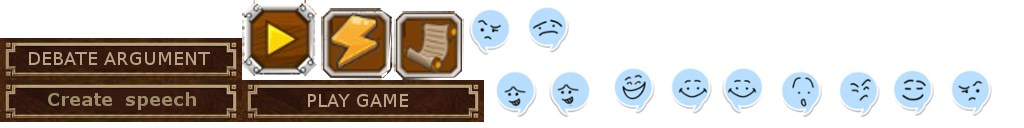
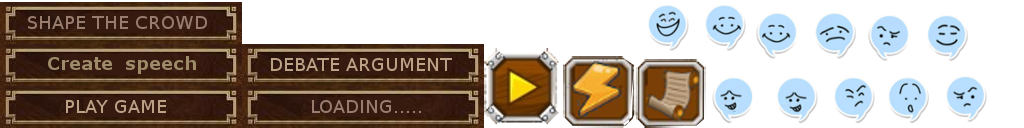
Fixed bugs

diff --git a/core/src/com/realrules/game/main/DemoGame.java b/core/src/com/realrules/game/main/DemoGame.java
@@ -54,6 +54,7 @@ public class DemoGame extends ApplicationAdapter {
 	IManualInteraction manualInteraction = null;
 	Label remainingVotesCounter = null;
 	Label endScoreCounter = null;
+	boolean isAssetsLoaded = false;
 	
 	public static float universalTimeRatio = 0.7f;
 
@@ -116,9 +117,7 @@ public class DemoGame extends ApplicationAdapter {
 	@Override
 	public void render () {
 		
-		if(!Assets.get().isLoaded()) {
-			Assets.get().load();
-		}
+		if(!isAssetsLoaded) { loadAssets();}
 		
 		Gdx.gl.glClearColor(0, 0, 0, 1);
 		Gdx.gl.glClear(GL20.GL_COLOR_BUFFER_BIT);
@@ -194,7 +193,26 @@ public class DemoGame extends ApplicationAdapter {
 		_yCentreOffset = actorToSet.getY();
 	}
 	
+	private void loadAssets() {
+		
+		if(!Assets.get().isLoaded()) {
+			Assets.get().load();
+		}
+		else {
+			setPlayButton();
+			isAssetsLoaded = true;
+		}
+	}
+	
 	private void setTitleScreen() {
+		
+		setToStage(getImage("TitleScreen", "screens//screensPack"), 0, 0);
+		Actor btn = getButton("LoadingBtn");
+		setToStage(btn, 0, -260);
+		
+	}
+	
+	private void setPlayButton() {
 		
 		setToStage(getImage("TitleScreen", "screens//screensPack"), 0, 0);
 		Actor btn = getButton("PlayGameBtn");
@@ -205,7 +223,6 @@ public class DemoGame extends ApplicationAdapter {
 				 setSpeechScreen();
 			 }
 		});
-		
 	}
 	
 	private void setTutorialScreen() {
@@ -291,13 +308,13 @@ public class DemoGame extends ApplicationAdapter {
 				HeadSprite current = null;
 				float rand = crowdSetter.nextFloat();
 				if(rand < 0.33) {
-					current = new HeadSprite(Head.GOSSIPER, WorldSystem.get().getGameXCoords().get(x), WorldSystem.get().getGameYCoords().get(y), types.get(0).spritePath, true);
+					current = new HeadSprite(Head.GOSSIPER, WorldSystem.get().getGameXCoords().get(x), WorldSystem.get().getGameYCoords().get(y), types.get(0).directoryPath, true);
 				}
 				else if(rand >= 0.33 && rand < 0.66) {
-					current = new HeadSprite(Head.INFLUENCER, WorldSystem.get().getGameXCoords().get(x), WorldSystem.get().getGameYCoords().get(y), types.get(1).spritePath, true);
+					current = new HeadSprite(Head.INFLUENCER, WorldSystem.get().getGameXCoords().get(x), WorldSystem.get().getGameYCoords().get(y), types.get(1).directoryPath, true);
 				}
 				else {
-					current = new HeadSprite(Head.DECEIVER, WorldSystem.get().getGameXCoords().get(x), WorldSystem.get().getGameYCoords().get(y), types.get(2).spritePath, true);
+					current = new HeadSprite(Head.DECEIVER, WorldSystem.get().getGameXCoords().get(x), WorldSystem.get().getGameYCoords().get(y), types.get(2).directoryPath, true);
 				}
 				if(y == WorldSystem.getSystemHeight()-1 && x == starterX) {
 					current.status = 1; current.setColor(Color.ORANGE); 
@@ -322,7 +339,7 @@ public class DemoGame extends ApplicationAdapter {
 		List<FollowerType> types = plState.getFollowerTypes();
 		
 		for(int i = 0; i < types.size(); i++) {
-			Image placeHolder = createTargetImage(types.get(i).spritePath+"Default.pack",WorldSystem.get().getHudXCoords().get(i), WorldSystem.get().getHudYCoords().get(i));
+			Image placeHolder = createTargetImage(types.get(i).directoryPath+"Default.pack",WorldSystem.get().getHudXCoords().get(i), WorldSystem.get().getHudYCoords().get(i));
 			placeHolders.add(placeHolder);
 			for(Follower follower : plFollowers) {
 				if(follower.type.head == types.get(i).head) {
@@ -464,7 +481,7 @@ public class DemoGame extends ApplicationAdapter {
 		Random rand = new Random();
 		for(int i =0; i < count; i++) {
 			FollowerType type = types.get(rand.nextInt(types.size()));
-			rewardedFollowers.add(new Follower(type.head, 0, type.spritePath));
+			rewardedFollowers.add(new Follower(type.head, 0, type.directoryPath+"Default.pack"));
 		}
 		
 		plState.addFollowers(rewardedFollowers);
@@ -475,12 +492,12 @@ public class DemoGame extends ApplicationAdapter {
 	private void setRewardFollowers(List<Follower> rewardedFollowers) {
 		
 		for(int count = 0; count < rewardedFollowers.size(); count++) {
-			setRewardImage(rewardedFollowers.get(count).type.spritePath, WorldSystem.get().getHudXCoords().get(count), WorldSystem.get().getHudYCoords().get(count));
+			setRewardImage(rewardedFollowers.get(count).type.directoryPath, WorldSystem.get().getHudXCoords().get(count), WorldSystem.get().getHudYCoords().get(count));
 		}
 	}
 	
 	private void setRewardImage(String framesPath, float origX, float origY) {
-		Image targetImage = new Image(new TextureAtlas(Gdx.files.internal(framesPath+"Default.pack")).getRegions().get(0));
+		Image targetImage = new Image(new TextureAtlas(Gdx.files.internal(framesPath)).getRegions().get(0));
 		targetImage.setPosition(origX, origY);
 		GameProperties.get().getStage().addActor(targetImage);
 		targetImage.setTouchable(Touchable.disabled);

diff --git a/core/src/com/realrules/game/interact/AutonomousInteraction.java b/core/src/com/realrules/game/interact/AutonomousInteraction.java
@@ -22,10 +22,10 @@ public class AutonomousInteraction {
 				interactee = WorldSystem.get().getMemberFromCoords(
 						interactor.getXGameCoord() + 1,
 						(interactor.getYGameCoord()));
-				System.out.println("Member type " + interactor.status
-						+ "  influencing to the right at "
-						+ (interactor.getXGameCoord() + 1) + ", "
-						+ interactor.getYGameCoord());
+//				System.out.println("Member type " + interactor.status
+//						+ "  influencing to the right at "
+//						+ (interactor.getXGameCoord() + 1) + ", "
+//						+ interactor.getYGameCoord());
 
 			}
 			if (orientation == Orientation.N
@@ -33,10 +33,10 @@ public class AutonomousInteraction {
 				interactee = WorldSystem.get().getMemberFromCoords(
 						interactor.getXGameCoord(),
 						(interactor.getYGameCoord() - 1));
-				System.out.println("Member type " + interactor.status
-						+ "  influencing above at "
-						+ interactor.getXGameCoord() + ", "
-						+ (interactor.getYGameCoord() - 1));
+//				System.out.println("Member type " + interactor.status
+//						+ "  influencing above at "
+//						+ interactor.getXGameCoord() + ", "
+//						+ (interactor.getYGameCoord() - 1));
 
 			}
 			if (orientation == Orientation.S
@@ -45,20 +45,20 @@ public class AutonomousInteraction {
 				interactee = WorldSystem.get().getMemberFromCoords(
 						interactor.getXGameCoord(),
 						(interactor.getYGameCoord() + 1));
-				System.out.println("Member type " + interactor.status
-						+ "  influencing below at "
-						+ interactor.getXGameCoord() + ", "
-						+ (interactor.getYGameCoord() + 1));
+//				System.out.println("Member type " + interactor.status
+//						+ "  influencing below at "
+//						+ interactor.getXGameCoord() + ", "
+//						+ (interactor.getYGameCoord() + 1));
 			}
 			if (orientation == Orientation.W
 					&& (interactor.getXGameCoord() - 1) > -1) {
 				interactee = WorldSystem.get().getMemberFromCoords(
 						interactor.getXGameCoord() - 1,
 						(interactor.getYGameCoord()));
-				System.out.println("Member type " + interactor.status
-						+ " influencing to the left at "
-						+ (interactor.getXGameCoord() + 1) + ", "
-						+ interactor.getYGameCoord());
+//				System.out.println("Member type " + interactor.status
+//						+ " influencing to the left at "
+//						+ (interactor.getXGameCoord() + 1) + ", "
+//						+ interactor.getYGameCoord());
 			}
 
 			// Perform interaction

diff --git a/core/src/com/realrules/game/main/HeadSprite.java b/core/src/com/realrules/game/main/HeadSprite.java
@@ -19,8 +19,8 @@ import com.realrules.game.interact.DeceiverInteraction;
 import com.realrules.game.interact.GossiperInteraction;
 import com.realrules.game.interact.IManualInteraction;
 import com.realrules.game.interact.PromoterInteraction;
-import com.realrules.game.main.WorldSystem.Orientation;
 import com.realrules.game.main.DemoGame.Head;
+import com.realrules.game.main.WorldSystem.Orientation;
 
 public class HeadSprite  extends Image  {
 	public IHeadBehaviour behaviour;
@@ -112,7 +112,7 @@ public class HeadSprite  extends Image  {
 			public void clicked(InputEvent event, float x, float y) 
 		    {
 				if(ScoreState.validTouchAction()) {
-					System.out.println("Touched at: x: "+x+", y: "+y+"");
+					System.out.println("Pressed at: x: "+x+", y: "+y+"");
 					behaviour.onTouch();
 					ScoreState.resetUserPoints();
 				}

diff --git a/core/src/com/realrules/game/main/MoveableSprite.java b/core/src/com/realrules/game/main/MoveableSprite.java
@@ -37,7 +37,7 @@ public class MoveableSprite
 		this.type = follower.type.head;
 		this.origX = x;
 		this.origY = y;
-		this.framesPath = follower.type.spritePath;
+		this.framesPath = follower.type.directoryPath;
 		this.frames = new TextureAtlas(Gdx.files.internal(framesPath)).getRegions();
 		currentFrame = frames.get(0);
 		
@@ -192,7 +192,7 @@ public class MoveableSprite
 	}
 	
 	public String getFramesPath() {
-		return (String)PlayerState.get().getFollowerTypes().get(GameProperties.get().getFollowerType().indexOf(this.type)).spritePath;
+		return (String)PlayerState.get().getFollowerTypes().get(GameProperties.get().getFollowerType().indexOf(this.type)).directoryPath;
 	}
 	
 	public Actor getTargetImage() {

diff --git a/core/src/com/realrules/game/interact/ManualInteraction.java b/core/src/com/realrules/game/interact/ManualInteraction.java
@@ -36,13 +36,10 @@ public class ManualInteraction {
 				//Flag actor as inactive for other interactions
 				hitActor.isActive = false;
 
-				//If first hit and is influenced actor
+				//If first hit and is the current influenced actor
 				if(isFirst && hitActor.status == 1) {	
 					invalidInteraction = false;
 					interactor = hitActor;
-
-					//					float angle = hitActor.getRotation();
-					//					angle = hitActor.getDirection() == 0 ? angle + 180f : angle;
 
 					System.out.println("First follower hit facing "+hitActor.getOrientation());
 				}

diff --git a/core/src/com/realrules/game/main/Assets.java b/core/src/com/realrules/game/main/Assets.java
@@ -5,12 +5,7 @@ import java.util.Arrays;
 import java.util.List;
 
 import com.badlogic.gdx.assets.AssetManager;
-import com.badlogic.gdx.graphics.Color;
-import com.badlogic.gdx.graphics.g2d.BitmapFont;
 import com.badlogic.gdx.graphics.g2d.TextureAtlas;
-import com.badlogic.gdx.scenes.scene2d.ui.Label;
-import com.badlogic.gdx.scenes.scene2d.ui.Skin;
-import com.badlogic.gdx.scenes.scene2d.ui.Label.LabelStyle;
 
 public class Assets {
 

diff --git a/core/src/com/realrules/game/main/WorldSystem.java b/core/src/com/realrules/game/main/WorldSystem.java
@@ -86,9 +86,9 @@ public class WorldSystem {
 	private void setYHudCoord() {
 		//Start from centre
 		float centreY = (Gdx.graphics.getHeight()) / 2; 
-		float ySpan = headSpriteH*yGrid;
+		float ySpan = headSpriteH*5;
 		float startY = centreY + (ySpan/2);
-		float spanLengthY = startY - ySpan;
+		float spanLengthY = startY - 370;
 		hudYCoord = (float) (spanLengthY - (headSpriteH*0.5));
 	}
 	

diff --git a/core/src/com/realrules/game/state/FollowerType.java b/core/src/com/realrules/game/state/FollowerType.java
@@ -5,11 +5,11 @@ import com.realrules.game.main.DemoGame.Head;
 public class FollowerType {
 	
 	public Head head;
-	public String spritePath;
+	public String directoryPath;
 	
 	public FollowerType(String path, Head head) {
 		this.head = head;
-		this.spritePath = path;
+		this.directoryPath = path;
 	}
 	
 

diff --git a/core/src/com/realrules/game/main/GameProperties.java b/core/src/com/realrules/game/main/GameProperties.java
@@ -3,7 +3,6 @@ package com.realrules.game.main;
 import java.util.Arrays;
 import java.util.List;
 
-import com.badlogic.gdx.assets.AssetManager;
 import com.badlogic.gdx.graphics.Color;
 import com.badlogic.gdx.scenes.scene2d.Actor;
 import com.badlogic.gdx.scenes.scene2d.Group;

diff --git a/core/src/com/realrules/game/main/ScoreState.java b/core/src/com/realrules/game/main/ScoreState.java
@@ -16,6 +16,7 @@ public class ScoreState {
 
 	public ScoreState(int winVotes, State winState, int totalVotes) {
 		scoreSystem = new VoteGameRules(winState, winVotes, totalVotes);
+		userPoints = touchActionPoints;
 	}
 	
 	public static int getTouchActionPoints() {
